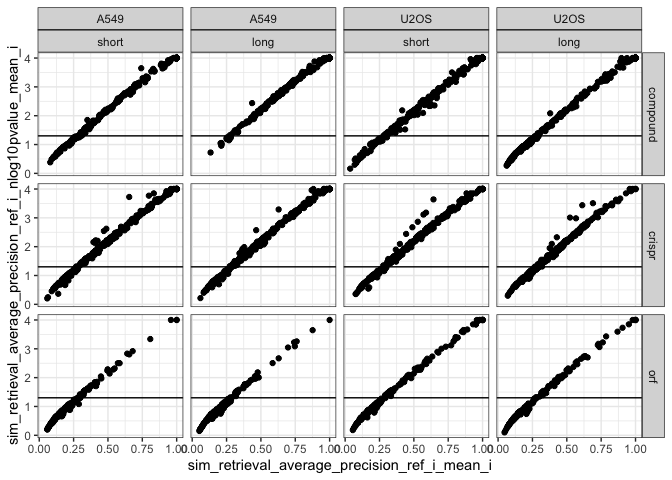
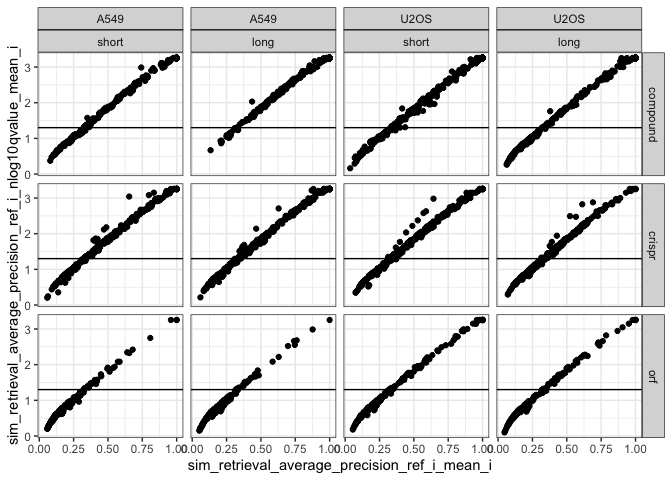
fix path

diff --git a/metrics/knit_notebooks/2.inspect.md b/metrics/knit_notebooks/2.inspect.md
@@ -61,7 +61,8 @@ significance_threshold
 metric_list <-
   c(
     glue("sim_retrieval_average_precision_{type}_i_mean_i"),
-    glue("sim_retrieval_average_precision_{type}_i_nlog10pvalue_mean_i")
+    glue("sim_retrieval_average_precision_{type}_i_nlog10pvalue_mean_i"),
+    glue("sim_retrieval_average_precision_{type}_i_nlog10qvalue_mean_i")
   )
 ```
 
@@ -84,24 +85,25 @@ level_1_metrics_null_adjusted %>%
   slice_sample(n = 10) %>%
   rename(
     mAP = sim_retrieval_average_precision_ref_i_mean_i,
-    mAP_neglog10_pvalue = sim_retrieval_average_precision_ref_i_nlog10pvalue_mean_i
+    mAP_neglog10_pvalue = sim_retrieval_average_precision_ref_i_nlog10pvalue_mean_i,
+    mAP_neglog10_qvalue = sim_retrieval_average_precision_ref_i_nlog10qvalue_mean_i
   )
 ```
 
 <div class="kable-table">
 
-| Metadata_Perturbation | Metadata_Cell_type | Metadata_Time | Metadata_target_list                                                                   | Metadata_broad_sample  |       mAP | mAP_neglog10_pvalue |
-|:----------------------|:-------------------|:--------------|:---------------------------------------------------------------------------------------|:-----------------------|----------:|--------------------:|
-| crispr                | U2OS               | 144           | SSTR2                                                                                  | BRDN0001480942         | 0.6412698 |           2.7194075 |
-| crispr                | A549               | 96            | ICAM1                                                                                  | BRDN0000734502         | 0.3866730 |           1.7681944 |
-| crispr                | U2OS               | 144           | EDNRB                                                                                  | BRDN0001489609         | 0.1163098 |           0.6208710 |
-| compound              | A549               | 48            | CYP3A4                                                                                 | BRD-K97010173-001-04-1 | 1.0000000 |           4.0000434 |
-| compound              | A549               | 24            | ABL1\|BCR\|FGFR1\|FGFR2\|FGFR3\|FGFR4\|FLT3\|KDR\|KIT\|LCK\|LYN\|PDGFRA\|RET\|SRC\|TEK | BRD-K44227013-001-08-0 | 1.0000000 |           4.0000434 |
-| compound              | A549               | 48            | MET                                                                                    | BRD-K19477839-001-07-6 | 0.6238604 |           2.7880270 |
-| orf                   | A549               | 48            | HSD11B1                                                                                | ccsbBroad304_06403     | 0.0951785 |           0.4860331 |
-| orf                   | A549               | 96            | HCK                                                                                    | ccsbBroad304_00733     | 0.3333822 |           1.5232112 |
-| orf                   | U2OS               | 48            | MMP2                                                                                   | ccsbBroad304_06588     | 0.1645014 |           0.7449940 |
-| compound              | U2OS               | 48            | KCNMA1\|KCNN4\|KCNQ2\|KCNQ4\|KCNQ5                                                     | BRD-K56740996-001-02-1 | 0.1665675 |           0.8735203 |
+| Metadata_Perturbation | Metadata_Cell_type | Metadata_Time | Metadata_target_list                                                                                                                                                 | Metadata_broad_sample  |       mAP | mAP_neglog10_pvalue | mAP_neglog10_qvalue |
+|:----------------------|:-------------------|:--------------|:---------------------------------------------------------------------------------------------------------------------------------------------------------------------|:-----------------------|----------:|--------------------:|--------------------:|
+| crispr                | A549               | 144           | CDK7                                                                                                                                                                 | BRDN0001147450         | 1.0000000 |           4.0000434 |           3.2528681 |
+| compound              | U2OS               | 24            | AMD1\|CANT1\|DCN\|NEIL1\|VEGFA                                                                                                                                       | BRD-K47978074-001-03-2 | 0.4087150 |           1.8352535 |           1.5631939 |
+| crispr                | U2OS               | 144           | ABL1                                                                                                                                                                 | BRDN0001147538         | 0.2218552 |           1.0176540 |           0.9087509 |
+| compound              | A549               | 48            | CDC25A\|CDC25B\|CDC25C                                                                                                                                               | BRD-K03109492-001-02-2 | 1.0000000 |           4.0000434 |           3.2528681 |
+| orf                   | A549               | 48            | ADH1C                                                                                                                                                                | ccsbBroad304_05777     | 0.2620388 |           1.2434607 |           1.0900048 |
+| compound              | U2OS               | 24            | ALKBH2\|ALKBH3\|BBOX1\|DBH\|EGLN1\|EGLN2\|EGLN3\|KDM5D\|LCT\|OGFOD1\|OGFOD2\|P3H1\|P3H2\|P3H3\|P4HA1\|P4HTM\|PAM\|PHYH\|PLOD1\|PLOD2\|PLOD3\|SLC23A1\|SLC23A2\|TMLHE | BRD-A85242401-001-11-5 | 0.6666667 |           2.6725594 |           2.2184743 |
+| compound              | U2OS               | 48            | ATP1A1\|CACNA1A\|CACNA1H\|CACNA2D2\|CALM1\|KCNQ1\|KCNQ4\|PDE1A\|PDE1B\|TNNC1                                                                                         | BRD-A91008255-003-24-8 | 0.2947703 |           1.3271965 |           1.1567714 |
+| compound              | U2OS               | 48            | CDK1\|CDK2\|CDK7\|CDK9\|FLT3\|JAK2                                                                                                                                   | BRD-K14560436-001-01-4 | 1.0000000 |           4.0000434 |           3.2528681 |
+| compound              | A549               | 24            | GPR35\|PDE1A\|PDE4D\|PDE5A\|PDE9A                                                                                                                                    | BRD-K16542329-001-16-8 | 0.2320480 |           1.0715611 |           0.9512912 |
+| crispr                | U2OS               | 96            | BRAF                                                                                                                                                                 | BRDN0000562882         | 0.0770425 |           0.3597614 |           0.3503663 |
 
 </div>
 
@@ -126,7 +128,7 @@ level_1_metrics_null_adjusted <-
 ``` r
 level_1_metrics_null_adjusted %>%
   ggplot(aes(sim_retrieval_average_precision_ref_i_mean_i,
-             sim_retrieval_average_precision_ref_i_nlog10pvalue_mean_i)) +
+             sim_retrieval_average_precision_ref_i_nlog10qvalue_mean_i)) +
   geom_point() +
   facet_grid(Metadata_Perturbation ~ Metadata_Cell_type + Metadata_Time_coded) +
   geom_hline(yintercept = -log10(significance_threshold)) +
@@ -189,5 +191,36 @@ level_1_metrics_null_adjusted %>%
 | orf                   | A549               | 96            |               121 |               39 |      0.24 |
 | orf                   | U2OS               | 48            |                73 |               87 |      0.54 |
 | orf                   | U2OS               | 96            |                99 |               61 |      0.38 |
+
+</div>
+
+``` r
+level_1_metrics_null_adjusted %>%
+  mutate(is_significant = sim_retrieval_average_precision_ref_i_nlog10qvalue_mean_i > 
+           -log10(significance_threshold)) %>%
+  count(Metadata_Perturbation,
+        Metadata_Cell_type,
+        Metadata_Time,
+        is_significant) %>%
+  pivot_wider(names_from = "is_significant", values_from = "n", names_prefix = "significant_") %>%
+  mutate(frac_TRUE = round(significant_TRUE / (significant_TRUE + significant_FALSE), 2))
+```
+
+<div class="kable-table">
+
+| Metadata_Perturbation | Metadata_Cell_type | Metadata_Time | significant_FALSE | significant_TRUE | frac_TRUE |
+|:----------------------|:-------------------|:--------------|------------------:|-----------------:|----------:|
+| compound              | A549               | 24            |                79 |              227 |      0.74 |
+| compound              | A549               | 48            |                23 |              283 |      0.92 |
+| compound              | U2OS               | 24            |                76 |              230 |      0.75 |
+| compound              | U2OS               | 48            |               107 |              199 |      0.65 |
+| crispr                | A549               | 96            |                98 |              207 |      0.68 |
+| crispr                | A549               | 144           |                97 |              208 |      0.68 |
+| crispr                | U2OS               | 96            |                98 |              207 |      0.68 |
+| crispr                | U2OS               | 144           |               141 |              164 |      0.54 |
+| orf                   | A549               | 48            |               127 |               33 |      0.21 |
+| orf                   | A549               | 96            |               131 |               29 |      0.18 |
+| orf                   | U2OS               | 48            |                89 |               71 |      0.44 |
+| orf                   | U2OS               | 96            |               108 |               52 |      0.32 |
 
 </div>
